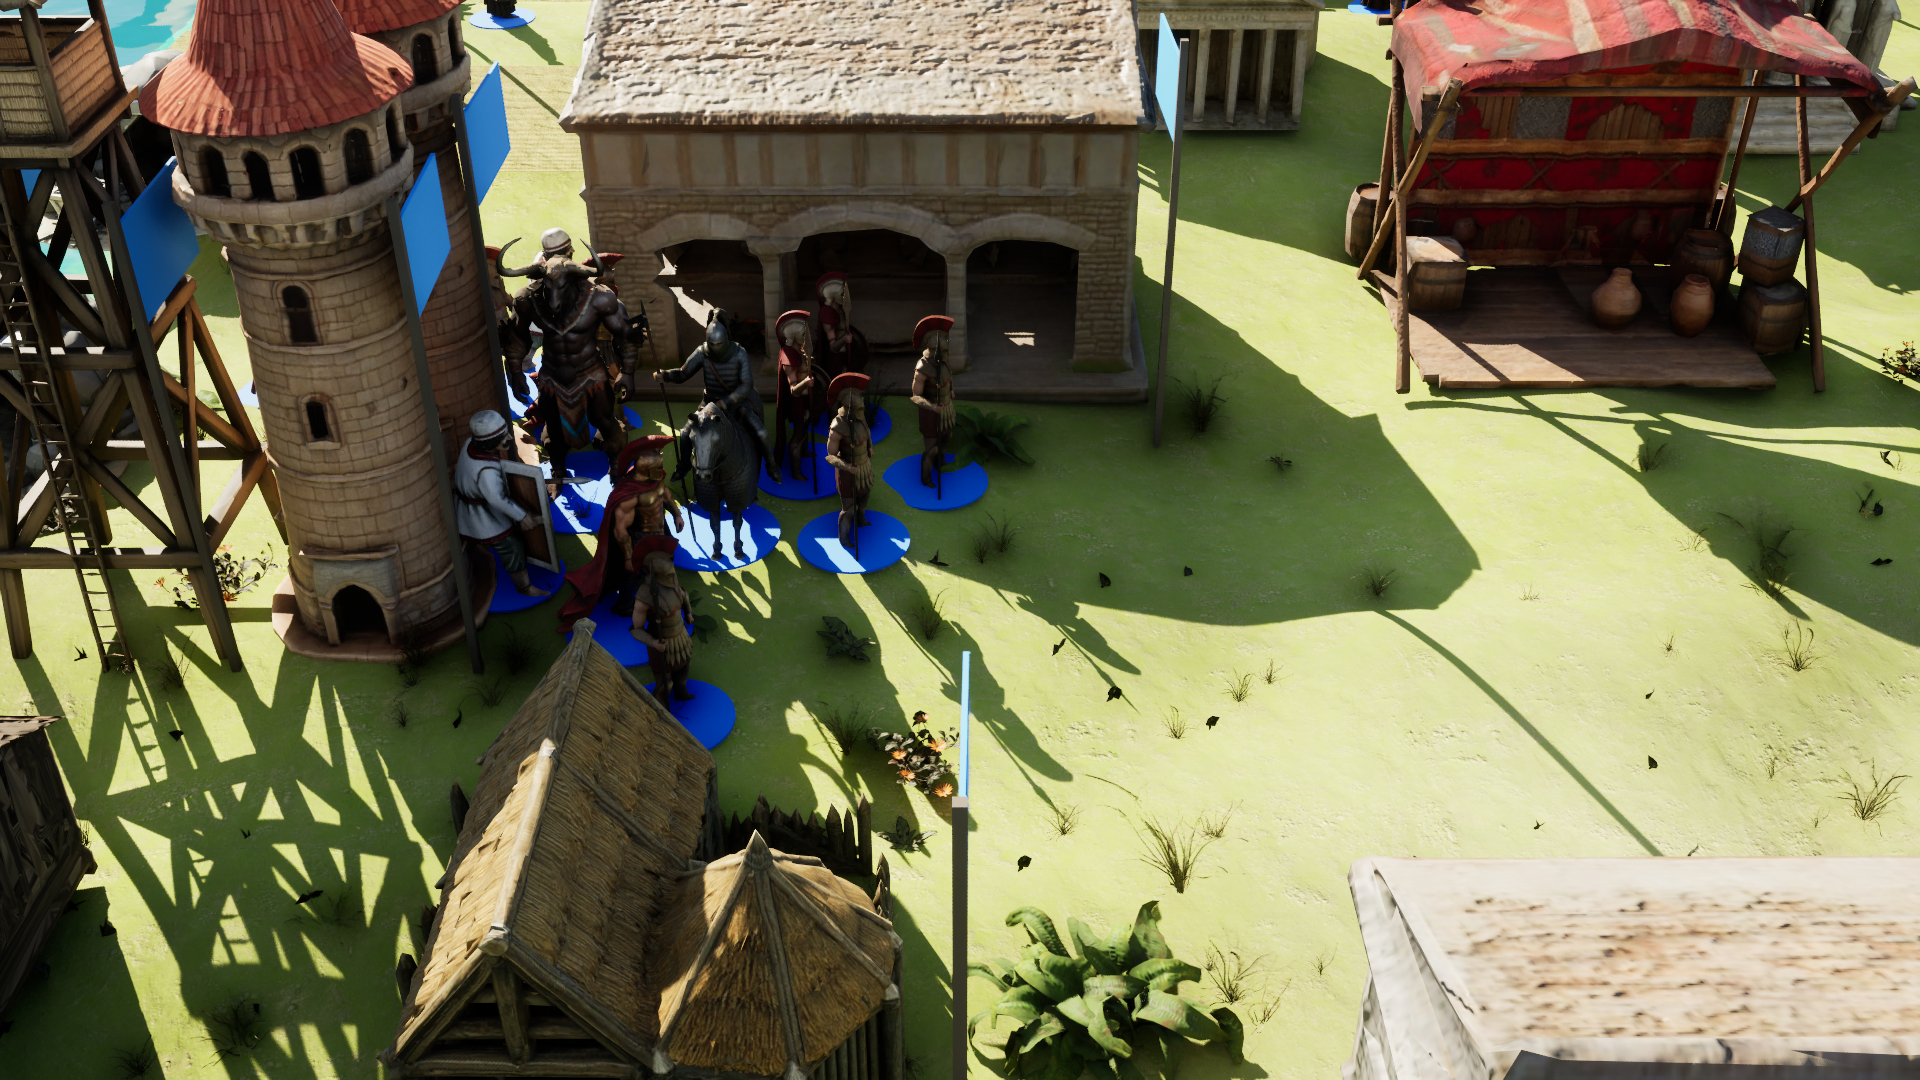
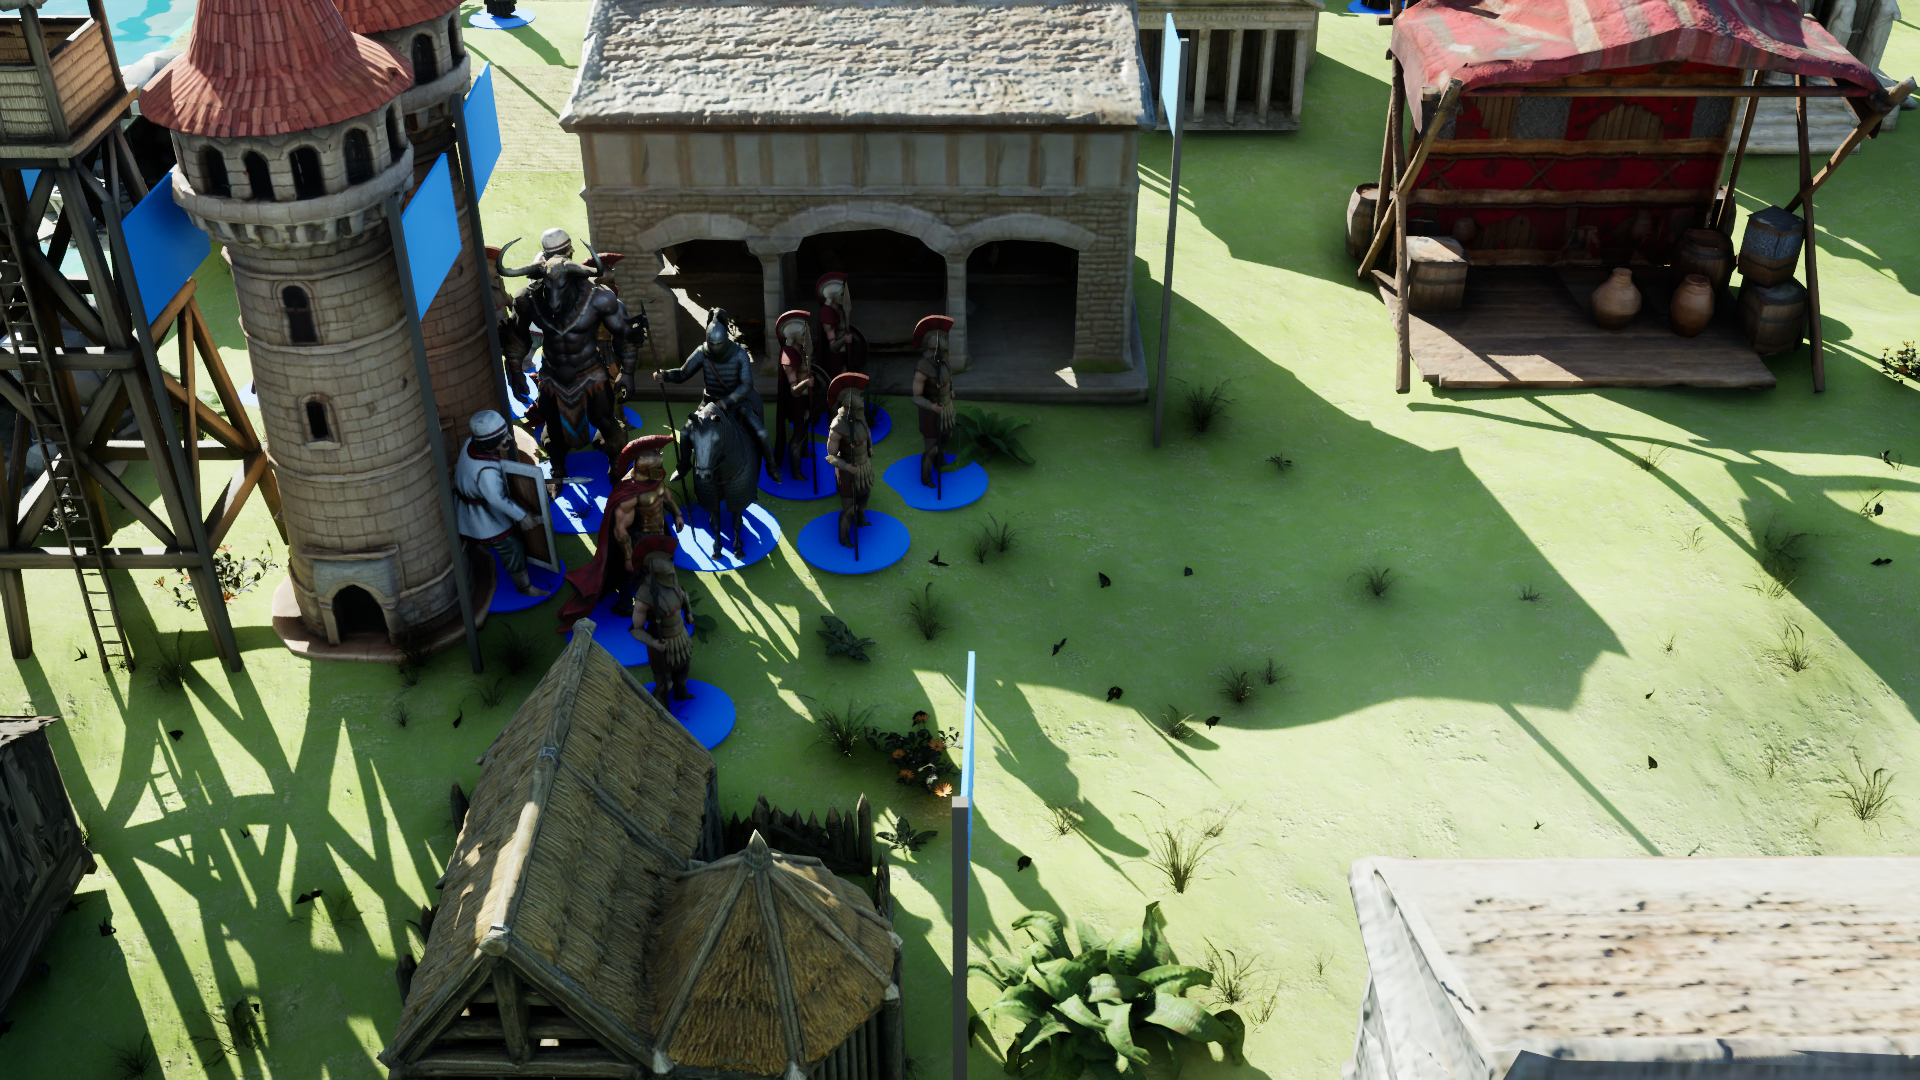
unreal: U1 luz mais baixa e quente, caravana e mercador com visual, capturas refeitas

diff --git a/unreal/scripts/build_u1_map.py b/unreal/scripts/build_u1_map.py
@@ -198,12 +198,13 @@ def main():
     step("SkyAtmosphere", lambda: spawn(unreal.SkyAtmosphere, label="Atmosfera"))
 
     def sun():
-        d = spawn(unreal.DirectionalLight, (center[0], center[1], 6000), (-34, 58, 0), "Sol")
+        d = spawn(unreal.DirectionalLight, (center[0], center[1], 6000), (-27, 58, 0), "Sol")
         c = d.get_component_by_class(unreal.DirectionalLightComponent)
         c.set_mobility(unreal.ComponentMobility.MOVABLE)
         c.set_editor_property("atmosphere_sun_light", True)
         c.set_editor_property("intensity", 6.4)
         c.set_editor_property("light_source_angle", 0.5)
+        c.set_editor_property("light_color", unreal.Color(255, 236, 208, 255))
     step("DirectionalLight", sun)
 
     def sky():
